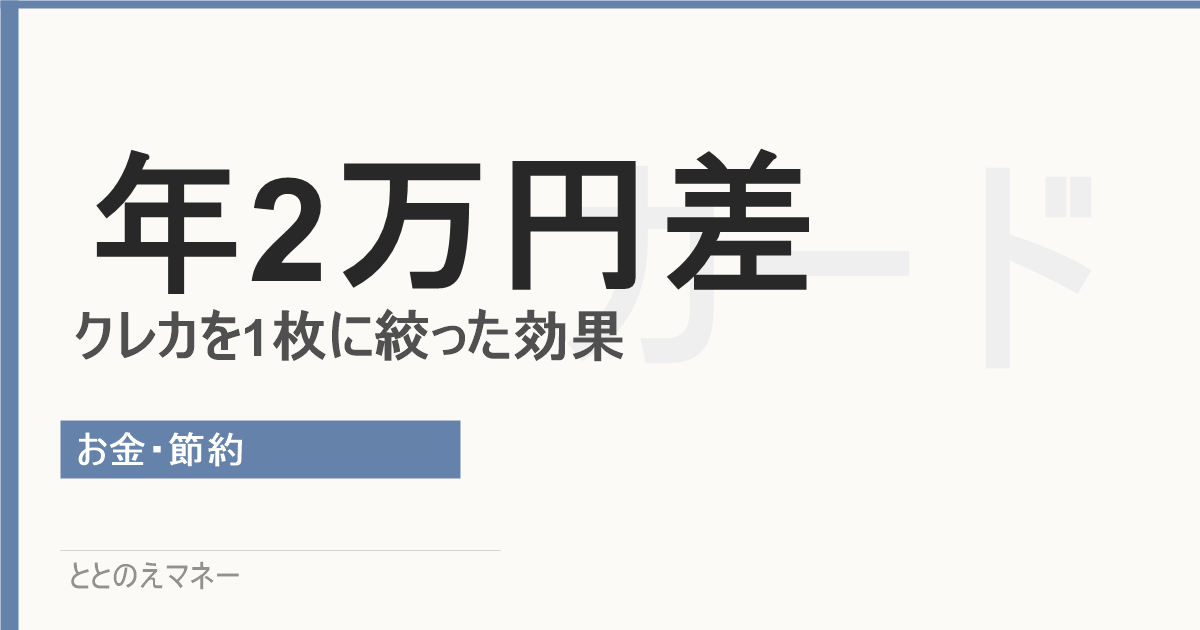
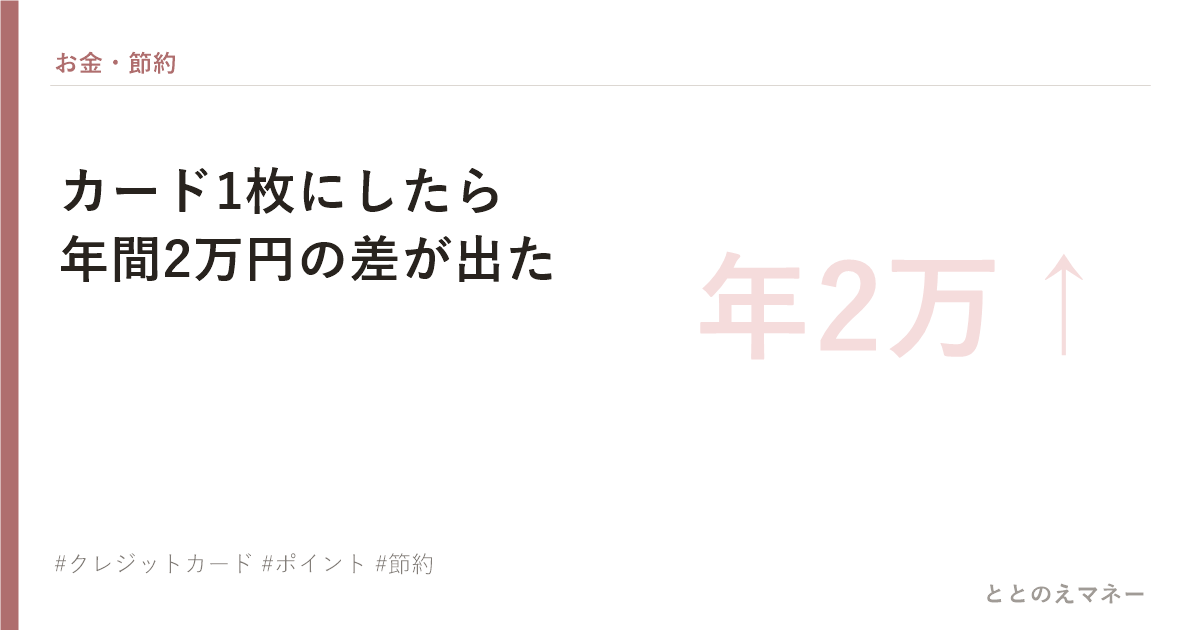
教育費まとめ記事追加・数字入りサムネイル6枚更新
- kyoiku-hi-matome.md を新規作成（シンママ教育費200万の実数公開）
- credit-card-1mai.png 新規（年2万円差）
- divorce-and-exam.png 数字入り（教育費100万）
- sim-hikaku.png 数字入り（月5,000円減）
- shogakukin-kyufu-matome.png 数字入り（給付型）
- hoken-minaoshi.png 数字入り（保険見直し）
- kyoiku-hi-matome.png 新規

diff --git a/content/posts/kyoiku-hi-matome.md b/content/posts/kyoiku-hi-matome.md
@@ -1,0 +1,215 @@
+---
+title: "シングルマザーの教育費はいくら？高校〜大学のリアルと内訳【体験談】"
+date: 2026-05-02
+draft: false
+description: "シンママが2人の子どもの教育費と向き合ってわかったこと。高校・大学の受験料・塾代・入学費用の実数を全部公開。固定費見直しで乗り切った方法もまとめました。"
+tags: ["教育費", "シンママ", "体験談", "節約", "受験", "大学費用", "高校費用"]
+categories: ["シンママ体験談"]
+cover:
+  image: /images/kyoiku-hi-matome.png
+  alt: "ノート・電卓・コインのフラットレイ"
+---
+
+こんにちは、まゆみんです。
+
+シングルマザーになってから、一番プレッシャーを感じたのは「教育費」でした。
+
+「いくらかかるの？」「足りるの？」
+
+子どもが小さいうちから、頭の片隅にずっとある不安です。
+
+この記事では、私が実際に経験した高校〜大学の教育費を全部公開します。
+
+正直に書くので、参考にしてもらえると嬉しいです。
+
+---
+
+## 結論：2人分の教育費は想像以上だった
+
+先に結論から言います。
+
+**受験から入学までの費用だけで、2人合わせると200万円以上かかりました。**
+
+これは「受験料・塾代・入学金・引越し費用」など受験〜大学1年目前半までの合計です。
+
+毎月の授業料や仕送りは含んでいません。
+
+最初に知っておきたかった、というのが正直な気持ちです。
+
+---
+
+## 高校受験にかかった費用【次女の場合】
+
+次女は**塾なしで高校受験**に挑みました。
+
+本人が「学校のワークだけでやってみる」と言って、それを信じました。
+
+結果として志望校に合格できたのですが、これは次女が努力してくれたおかげです。
+
+かかった費用はこの通りです。
+
+| 項目 | 金額 |
+|------|------|
+| 模試代（年間） | 約1〜2万円 |
+| 受験料（私立・公立 複数校） | 約5〜8万円 |
+| 高校入学金・制服・教材一式 | 約20〜30万円 |
+
+塾なしで乗り切れたことで、かなり助かりました。
+
+それでも入学時だけで20〜30万円かかるのは、シンママにはリアルに厳しかったです。
+
+---
+
+## 大学受験にかかった費用【長女の場合】
+
+長女は**県外の私立大学**を第一志望にしていました。
+
+「学費の安い地元の国公立の方が…」と思わなかったと言えば嘘になります。
+
+でも、娘が自分で決めた道を、親の都合で止める気にはなれなかった。
+
+「費用は気にせず、自分が後悔しない大学を選んでいいよ」と言いました。
+
+内心は不安でいっぱいでした。
+
+実際にかかった受験費用はこちらです。
+
+| 項目 | 金額 |
+|------|------|
+| 模試代（年間） | 約3〜5万円 |
+| 塾代（月） | 約4〜7万円 |
+| 受験料（複数校） | 1校あたり約3.5万円 |
+| 交通費・宿泊費（遠征） | 約2〜3万円 |
+
+塾代だけで年間50〜80万円規模になります。
+
+受験費用の合計は、**長女だけで年間80〜100万円**ほどになりました。
+
+---
+
+## 大学入学時にかかった費用
+
+長女が合格したとき、泣きました。
+
+離婚してぐちゃぐちゃのまま走り続けた一年を、一緒に乗り越えられたんだという気持ちがこみ上げてきました。
+
+少し落ち着いてから、通帳を開きました。
+
+「…思ってたより、ない」
+
+入学時にかかった費用がこちらです。
+
+| 項目 | 金額 |
+|------|------|
+| 入学金 | 約20万円 |
+| 前期授業料・施設費等 | 約50万円 |
+| 敷金・保証料など（一人暮らし） | 約12万円 |
+| 家賃（初月） | 約6万円 |
+| 火災保険・清掃料など | 約5万円 |
+| 引越し費用（自力対応） | 交通費・ガソリン代のみ |
+
+**入学時だけで軽く100万円を超えました。**
+
+シングルになってから奨学金の申請が間に合わず、入学後に慌てて手続きをしたのも正直なところです。
+
+---
+
+## 毎月の仕送りと授業料
+
+入学後も出費は続きます。
+
+| 項目 | 金額 |
+|------|------|
+| 仕送り | 月5〜6万円 |
+| 授業料（後期以降） | 前期と同額 |
+| 奨学金（給付型・貸与型） | 一部補てん |
+
+奨学金については別記事でまとめています。
+
+→ [返さなくていい奨学金5つ｜給付型の一覧と申請方法まとめ](/posts/shogakukin-kyufu-matome/)
+
+---
+
+## 固定費の見直しで乗り切った
+
+お金が出ていく一方で、私がやったことを正直に書きます。
+
+### スマホ代を見直した（年間12万円削減）
+
+3人分（私・長女・次女）を大手キャリアから格安SIMに切り替えました。
+
+それだけで**3人合計で月1万円以下**になりました。
+
+以前は3人で月2万円以上払っていたので、年間約12万円の削減です。
+
+「面倒そう」と思って後回しにしていましたが、手続きは1日で終わりました。
+
+詳しくはこちら→ [スマホ代を月5,000円下げた方法（格安SIM比較）](/posts/sim-hikaku/)
+
+### ひとり親支援制度を全部申請した
+
+市役所に相談して、受けられる制度をすべて申請しました。
+
+「どうせ対象外だろう」と思っていたものの、実際に申請してみると複数の支援を受けられました。
+
+申請しないともらえない制度がほとんどです。まず電話してみるだけでいいです。
+
+詳しくはこちら→ [ひとり親家庭がもらえるお金・制度まとめ](/posts/hitorioya-seido/)
+
+### 養育費をしっかり確保した
+
+離婚後の生活を安定させるために、養育費の交渉に弁護士を入れました。
+
+1人10万円×2人＝月20万円、大学卒業まで確保できました。
+
+養育費の確保が、その後の生活の安定に直結しました。
+
+詳しくはこちら→ [協議離婚でも養育費月20万円もらえた話](/posts/youikuhi/)
+
+---
+
+## 教育費の準備で後悔していること
+
+正直に言うと、**もっと早くNISAを本格化しておけばよかった**と思っています。
+
+離婚前から少し始めていましたが、本腰を入れたのは離婚後でした。
+
+今は月10万円（つみたて投資枠の上限）を積み立てています。
+
+「年金だけでは不安」から「自分で計算できるようになった」に変わったのは、FP2級を取得してからです。
+
+---
+
+## まとめ
+
+教育費の目安（2人分・受験〜入学まで）
+
+| 内容 | 金額目安 |
+|------|---------|
+| 高校受験〜入学 | 約25〜40万円 |
+| 大学受験費用（塾含む） | 約80〜100万円 |
+| 大学入学時費用 | 約100万円以上 |
+| **合計（受験〜大学入学まで）** | **約200万円以上** |
+
+毎月の仕送り・授業料はこれとは別にかかります。
+
+「想像よりかかる」というのが正直なところです。
+
+でも固定費を見直すだけで、毎月の支出は確実に減らせます。
+
+まず一番効果が大きいのは**スマホ代の見直し**です。手続きは1日で終わります。
+
+同じように教育費で悩んでいる方の、少しでも参考になれば嬉しいです 🌿
+
+---
+
+最後まで読んでくれてありがとうございます。
+
+---
+
+## あわせて読みたい 📖
+
+- [受験期に離婚…教育費はいくら？シンママが2人受験を乗り切った全内訳](/posts/divorce-and-exam/)
+- [スマホ代を月5,000円下げた方法（格安SIM比較）](/posts/sim-hikaku/)
+- [返さなくていい奨学金5つ｜給付型の一覧と申請方法まとめ](/posts/shogakukin-kyufu-matome/)
+- [クレジットカード1枚にしたら年間2万円差｜シンママのリアル公開](/posts/credit-card-1mai/)
